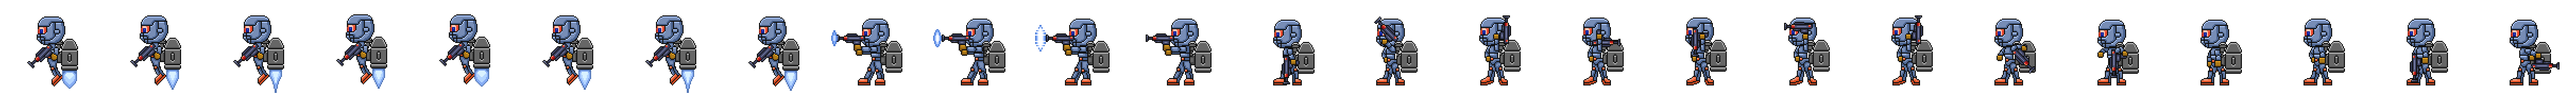
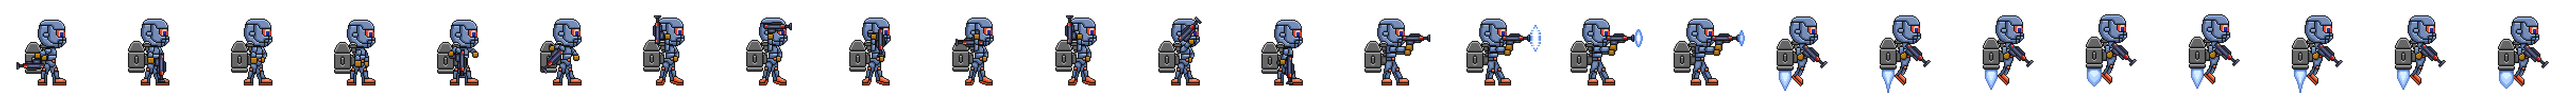
added gun sync

Changed region(s): [[0.0, 0.1237, 0.9963, 0.8351]]

diff --git a/script.js b/script.js
@@ -12,7 +12,7 @@ let frame = 0;
 let gameOver = false;
 let score = 0;
 const winningScore = 50;
-
+let chooseDefender = 1;
 const gameGrid = [];
 const defenders = [];
 const enemies = [];
@@ -130,6 +130,10 @@ for (let j =0; j < enemies.length; j++){
 
 
 //defenders
+const defender1 = new Image();
+defender1.src = 'defender1.png';
+const defender2 = new Image();
+defender2.src = 'defender2.png';
 class Defender{
     constructor(x, y){
         this.x = x;
@@ -137,9 +141,16 @@ class Defender{
         this.width = cellSize - cellGap * 2;
         this.height = cellSize - cellGap * 2;
         this.shooting = false;//shoot only when enemy is detected on row
+        this.shootNow = false
         this.health = 100;
         this.projectiles = [];
         this.timer = 0;
+        this.frameX = 0; //to cycle through the frames of the spritesheet
+        this.frameY = 0;
+        this.spriteWidth = 194;
+        this.spriteHeight = 194;
+        this.minFrame = 0;
+        this.maxFrame = 16;
     }
     draw(){
         ctx.fillStyle = 'blue';
@@ -147,19 +158,29 @@ class Defender{
         ctx.fillStyle = 'gold';
         ctx.font = '20px Orbitron';
         ctx.fillText(Math.floor(this.health), this.x + 15, this.y + 30);//to give health in whole numbers
-
+        ctx.drawImage(defender1, this.frameX * this.spriteWidth, 0, this.spriteWidth, this.spriteHeight, this.x, this.y, this.width, this.height);
 
     }
     update(){
-        if (this.shooting){
-            this.timer++;
-            if (this.timer % 100 === 0){
-                projectiles.push(new Projectile(this.x + 70, this.y + 50)); //to ensure lasers originate from the defender who fires them
-    
-            }
-        }else {
-            this.timer = 0;
+        if (frame % 8 === 0){//making the defender shoot faster
+            if (this.frameX < this.maxFrame) this.frameX++;
+            else this.frameX = this.minFrame;
+            if (this.frameX === 15) this.shootNow = true;// syncs frame 15 of animation with the bullets
         }
+        if (this.shooting){// switches frame to idle when no enemy is detected on row
+           this.minFrame = 0;
+           this.maxFrame = 15; 
+        } else{
+            this.minFrame = 17;
+            this.maxFrame = 23;
+        }
+
+
+        if (this.shooting && this.shootNow){ //if defender detects enemy on row and farme is 15 then shoot
+                projectiles.push(new Projectile(this.x + 70, this.y + 35)); //to ensure lasers originate from the defender who fires them
+                this.shootNow = false;
+    
+            }       
        
     }
 }
@@ -195,6 +216,9 @@ function handleDefenders(){
         }
     }
 }
+
+
+
 //floating Messages
 const floatingMessages = [];
 class floatingMessage{
@@ -238,7 +262,7 @@ const enemy1 = new Image();
 enemy1.src = 'enemy1.png';
 enemyTypes.push(enemy1);
 const enemy2 = new Image();
-enemy2.src = 'enemy2.png';
+enemy2.src = 'enemy1.png';
 enemyTypes.push(enemy2);
 
 
@@ -270,8 +294,8 @@ class Enemy{
    
     }
     draw(){
-        ctx.fillStyle = 'red';
-        ctx.fillRect(this.x, this.y, this.width, this.height);
+        //ctx.fillStyle = 'red';
+        //ctx.fillRect(this.x, this.y, this.width, this.height);
         ctx.fillStyle = 'black';
         ctx.font = '20px Orbitron';
         ctx.fillText(Math.floor(this.health), this.x + 15, this.y + 30);//to give health in whole numbers
@@ -357,8 +381,8 @@ function handleResources(){
 function handleGameStatus(){
     ctx.fillStyle = 'gold';
     ctx.font = '30px Orbitron';
-    ctx.fillText('Score: ' + score, 20, 40);
-    ctx.fillText('Resources: ' + numberOfResources, 20, 80);
+    ctx.fillText('Score: ' + score, 180, 40);
+    ctx.fillText('Resources: ' + numberOfResources, 180, 80);
     if (gameOver){
         ctx.fillStyle = 'black';
         ctx.font = '90px Orbitron';
